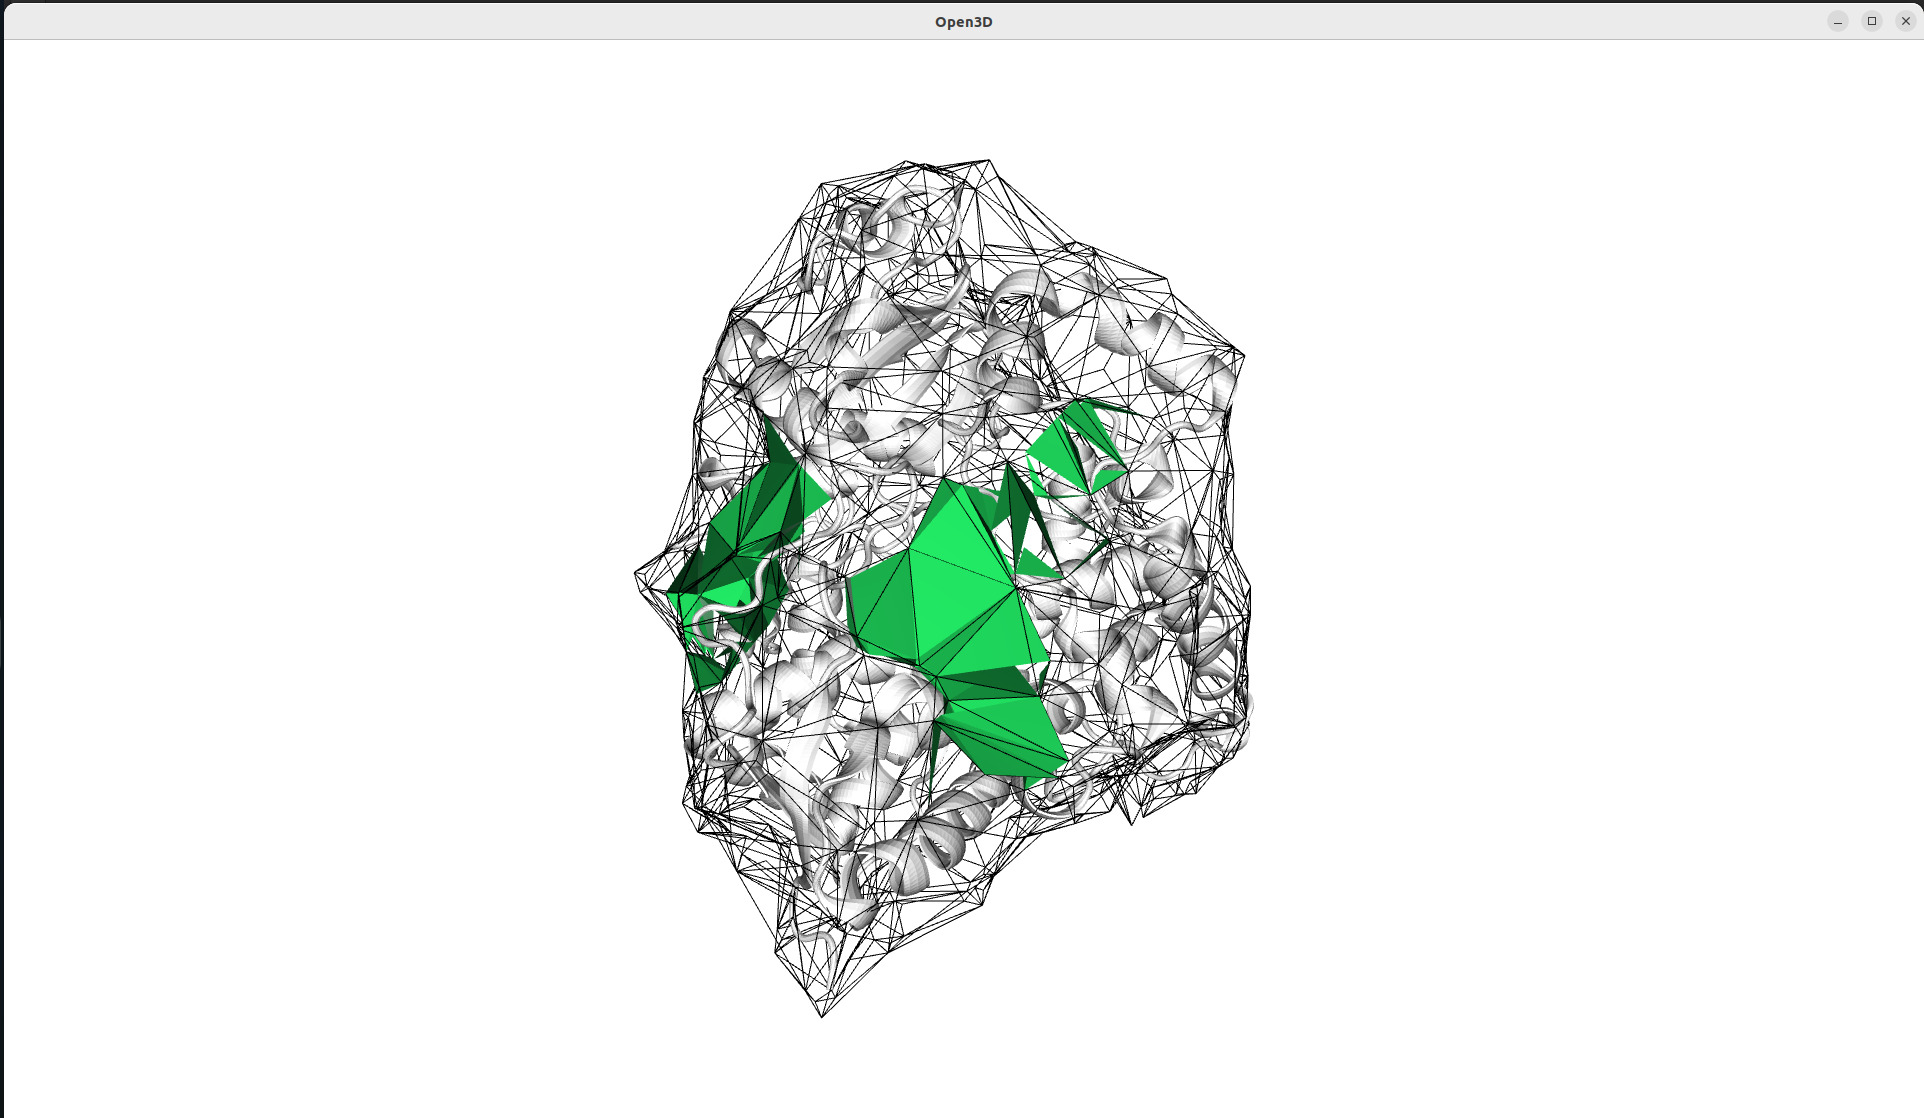
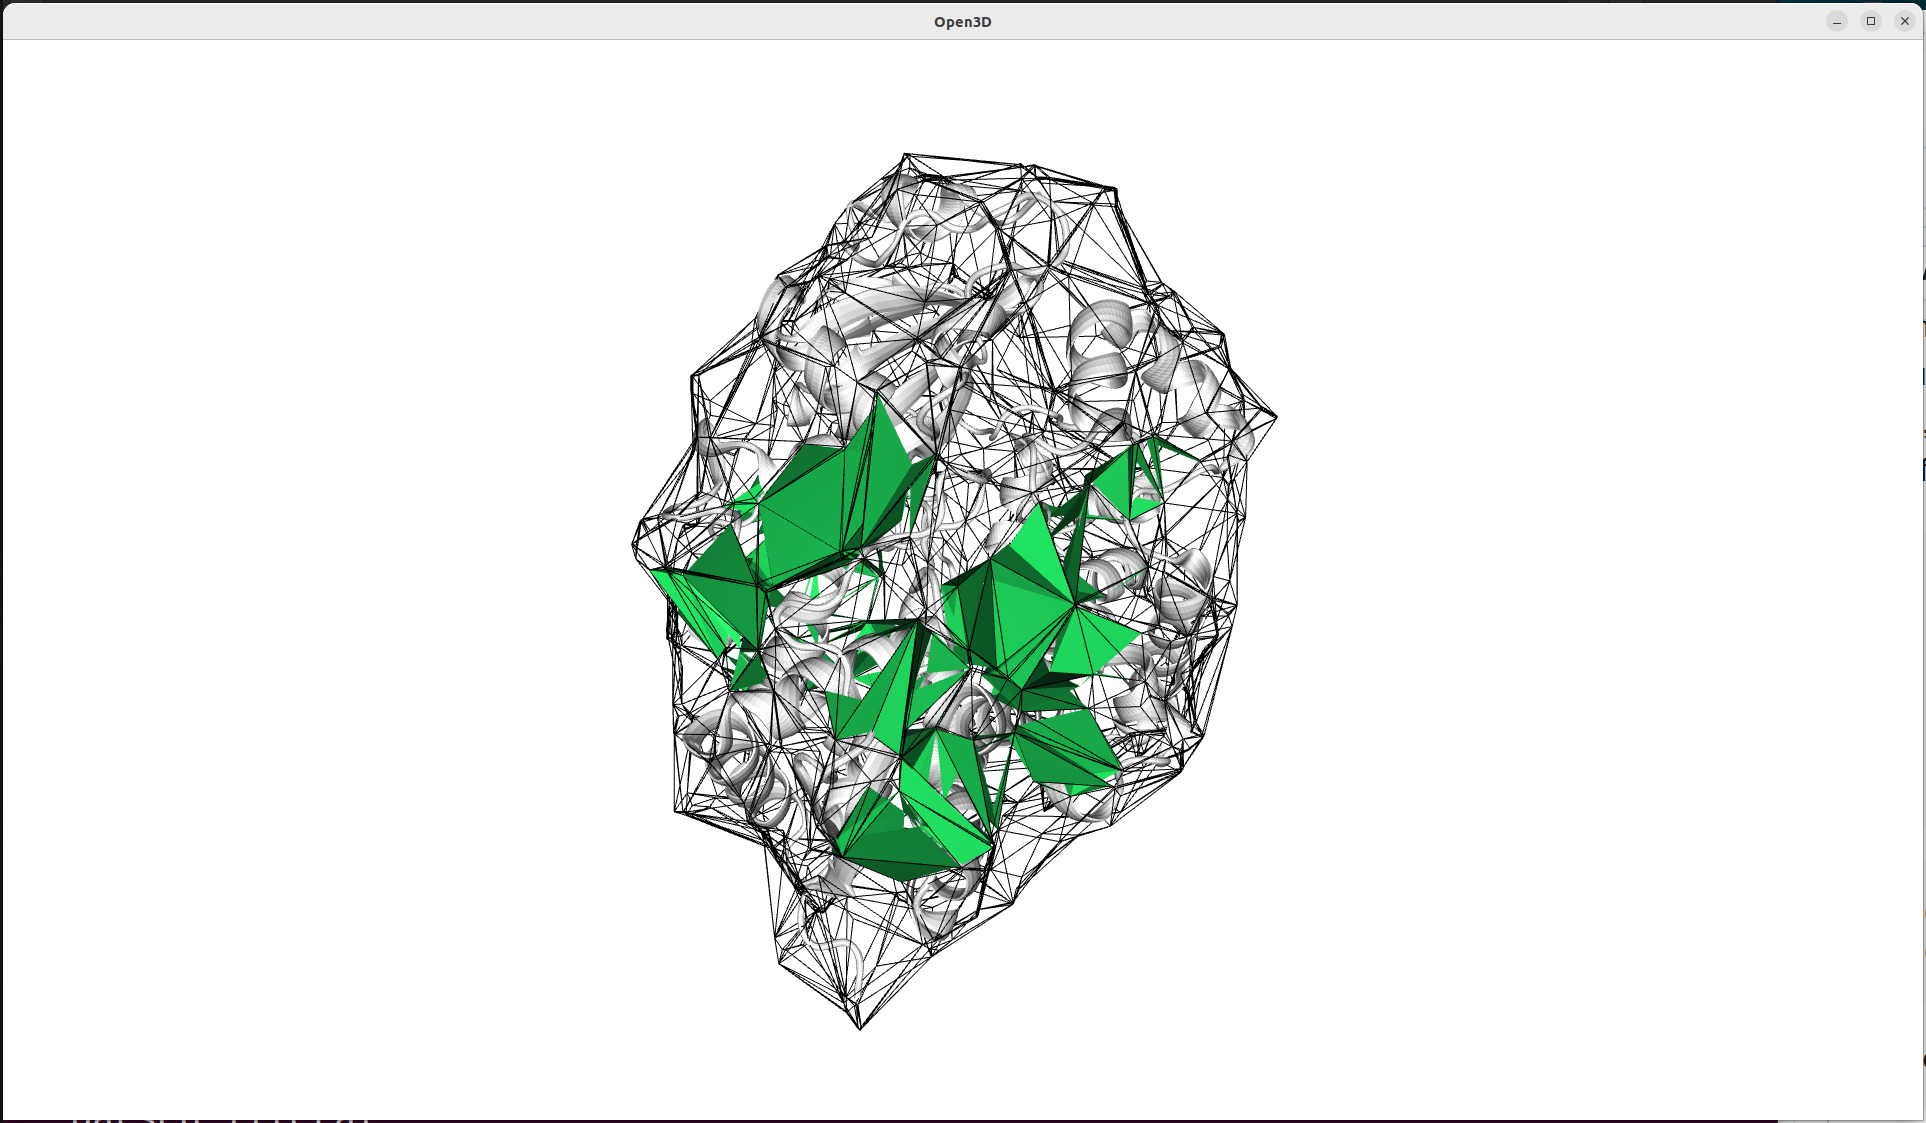
CaviTracer tutorial - singlePDB - changes after JB improvements (part2; figs 20, 21)

diff --git a/tutorials/cavitracer_tutorial/singlePDB.rst b/tutorials/cavitracer_tutorial/singlePDB.rst
@@ -432,21 +432,78 @@ geometric center is used as the starting point.
 .. parsed-literal::
 
    @> Using user-provided start_point for channel seed: [-22.312, -20.065, -11.144] Å
-   @> Detected 9 channels.
-
+   @> The atoms supplied to calcChannels contain protein atoms only.
+   @> WARNING structure has no hydrogens and r2=0.90 is below 1.2 A: the space left by the missing H is then wide enough for the probe to pass, and channels will be found through interstices that do not exist in the real protein (their number can rise several-fold). Either add hydrogens, or raise r2 to 1.2 A or more, where protonated and unprotonated structures give the same channels.
+   @> Substituted 3766 atoms with 23638 homogeneous balls of radius 1.52 A in 0.27s.
+   @> Delaunay tessellation of 23638 points constructed in 0.87s.
+   @> Surface and inner simplices filtered in 1.43s.
+   @> start_point seeded at tetrahedron 11317 (Voronoi vertex at [-24.951, -19.189, -10.516], 2.850 A from start_point, inscribed radius 1.330 A, depth 13.3 A).
+   @>     widened from the nearest tetrahedron 8399 (2.444 A away, inscribed radius 0.924 A, depth 13.1 A), the widest of the 4 tetrahedra no shallower than it among the 4 reachable within 3.0 A; seeding the narrow one would have capped every channel here at its radius.
+   @>     restricting the channel search to the cavity that contains it (10149 tetrahedra, depth 32.4 A).
+   @> 1 surface cavities detected and filtered in 0.36s.
+   @> Channel pathfinding (graph Dijkstra) over 1 cavities completed in 3.03s.
+   @> Detected 47 channels.
+   @> No output path given.
+   @> Channel calculation completed in 5.97s.
 
 .. ipython:: python
    :verbatim:
 
-   start_sel = protein.select('resid 212 309 483')
-   calcChannels(protein, output_path='results.pdb', start_point=start_sel)
+   start_sel = atoms.select('resid 212 309 483')
+   calcChannels(atoms, output_path='results.pdb', start_point=start_sel)
 
 
 .. parsed-literal::
 
    @> Using user-provided start_point for channel seed: [-24.395, -23.462, -15.132] Å
-   @> Detected 9 channels.
+   @> The atoms supplied to calcChannels contain protein atoms only.
+   @> WARNING structure has no hydrogens and r2=0.90 is below 1.2 A: the space left by the missing H is then wide enough for the probe to pass, and channels will be found through interstices that do not exist in the real protein (their number can rise several-fold). Either add hydrogens, or raise r2 to 1.2 A or more, where protonated and unprotonated structures give the same channels.
+   @> Substituted 3766 atoms with 23638 homogeneous balls of radius 1.52 A in 0.27s.
+   @> Delaunay tessellation of 23638 points constructed in 0.86s.
+   @> Surface and inner simplices filtered in 1.33s.
+   @> start_point seeded at tetrahedron 10064 (Voronoi vertex at [-24.209, -22.626, -15.674], 1.013 A from start_point, inscribed radius 2.308 A, depth 6.6 A).
+   @>     already the widest of the 31 tetrahedra no shallower than it among the 84 reachable within 3.0 A.
+   @>     restricting the channel search to the cavity that contains it (10149 tetrahedra, depth 32.4 A).
+   @> 1 surface cavities detected and filtered in 0.32s.
+   @> Channel pathfinding (graph Dijkstra) over 1 cavities completed in 2.76s.
+   @> Detected 47 channels.
    @> Saving results to results.pdb.
+   @> Channel calculation completed in 5.59s.
+
+   ([<prody.proteins.channels.Channel at 0x79c0da891e10>,
+     <prody.proteins.channels.Channel at 0x79c0da891a80>,
+     <prody.proteins.channels.Channel at 0x79c1479697e0>,
+     ..
+     <prody.proteins.channels.Channel at 0x79c147045c30>,
+     <prody.proteins.channels.Channel at 0x79c0da8924d0>],
+    [array([[-30.07      ,   8.178     , -13.891     ],
+            [-29.618     ,   8.226     , -15.315     ],
+            [-29.58642188,   8.14478071, -15.1575    ],
+            ...,
+            [-26.49550663, -61.26776883, -23.6695    ],
+            [-26.76969072, -61.18417412, -23.7145    ],
+            [-26.57247665, -61.10354151, -23.7595    ]]),
+     array([[ 408,  393,  396,  405],
+            [ 394,  408,  396,  405],
+            [ 394,  408,  393,  396],
+            ...,
+            [2348, 2340, 2322, 2355],
+            [2348, 2340, 2357, 2355],
+            [2348, 2340, 2357, 2322]], dtype=int32),
+     array([[ 7615, 21484, 14211, 14209],
+            [21290,  7615, 21484, 14211],
+            [21264, 21290,  7615, 21484],
+            ...,
+            [21319, 21338, 21339, 21118],
+            [21338, 21339, 21126, 21118],
+            [21290, 14214, 21484, 14211]], dtype=int32),
+     array([[ 7615, 21484, 14211, 14209],
+            [ 9671,  9668,  9476,  9278],
+            [16207, 16434, 16401, 16192],
+            ...,
+            [ 2356,  1907,  2976,  1917],
+            [ 1504,  1501, 18522,  1516],
+            [ 1504,  1501, 18522, 18495]], dtype=int32)])
 
 
 Below is the visualization of channel identification for the two different starting
@@ -496,8 +553,14 @@ file using ``output_path`` parameter.
 
 .. parsed-literal::
 
-   @> Returning surface cavities
-   @> Saving surface cavities to test_surf_cav.pqr.
+  @> The atoms supplied to calcChannels contain protein atoms only.
+  @> Substituted 3766 atoms with 23638 homogeneous balls of radius 1.52 A in 0.22s.
+  @> Delaunay tessellation of 23638 points constructed in 0.84s.
+  @> Surface and inner simplices filtered in 0.32s.
+  @> 40 surface cavities detected and filtered in 0.30s.
+  @> Returning surface cavities
+  @> Saving surface cavities to test_surf_cav.pqr.
+  @> Surface cavity calculation completed in 1.81s.
 
 To display the identified surface cavities, similarly to the channel
 identification, we need to use VMD_ to create the model for visualization
@@ -549,8 +612,14 @@ saved to a file specified by the output_path parameter,
 
 .. parsed-literal::
 
+   @> The atoms supplied to calcChannels contain protein atoms only.
+   @> Substituted 3766 atoms with 23638 homogeneous balls of radius 1.52 A in 0.28s.
+   @> Delaunay tessellation of 23638 points constructed in 0.81s.
+   @> Surface and inner simplices filtered in 0.33s.
+   @> 40 surface cavities detected and filtered in 0.31s.
    @> Returning surface cavities
    @> Saving surface cavities to surf_cav_MinMax_volume.pqr.
+   @> Surface cavity calculation completed in 1.84s.
 
 We can display the results using :func:`.showSurfaceCavities` function:
 
@@ -602,9 +671,9 @@ tetrahedra count, use :func:`getSurfaceCavityParameters`.
 .. parsed-literal::
 
    @> Cavity ID: 	Volume [Å³] 	Depth [Å] 	Tetrahedra count
-   @> cavity 0: 	928.09 		8 		97
-   @> cavity 1: 	771.55 		5 		77
-   @> Surface cavity residues were saved to: results_Residues_All_surface_cavities.txt
+   @> cavity 0: 	503.05 		7.78 		133
+   @> cavity 1: 	955.46 		8.29 		269
+   @> cavity 2: 	621.45 		8.01 		152
 
 By assigning the output of :func:`getSurfaceCavityParameters` to the
 variable parameters, the extracted cavity descriptors can be accessed as
@@ -618,7 +687,9 @@ lists, including cavity volume (``parameters[0]``), depth
 
 .. parsed-literal::
 
-   ([928.0878561950001, 771.5530158881667], [8, 5], [97, 77])
+   ([503.04967293496003, 955.46028274561, 621.4527824426602],
+    [7.7812978201386995, 8.293453349117478, 8.006634128744826],
+    [133, 269, 152])
 
 
 .. ipython:: python
@@ -628,7 +699,7 @@ lists, including cavity volume (``parameters[0]``), depth
 
 .. parsed-literal::
 
-   [928.0878561950001, 771.5530158881667]
+   [503.04967293496003, 955.46028274561, 621.4527824426602]
 
 
 In addition to quantitative descriptors, CaviTracer also allows the
@@ -658,10 +729,15 @@ sufix.
 
 .. parsed-literal::
 
-   ['cavity0: LYS173, ASP174, GLY177, ALA178, SER195, LEU196, PRO199, LYS208, LYS209,
-   LEU211, ARG212, PHE213, PHE219, PHE220, CYS239, VAL240, PHE241, PRO242, PHE304,
-   TYR307, GLU308, SER311, LEU482', 'cavity1: LYS55, MET59, MET62, GLU63, TYR319, 
-   GLU320, THR323, HIS324, PHE367, TYR399, ARG403, GLU412, LYS413, PHE414, ILE473, 
-   PRO474, LEU475, LEU477, SER478, LEU479']
+   ['cavity0: LYS55, MET59, MET62, TYR319, THR323, HIS324, TYR399, GLU412, 
+     LYS413, PHE414, LEU415, ILE473, LYS476, LEU477, LEU479, GLU486',
+    'cavity1: GLU163, GLY167, LYS168, PRO169, VAL170, THR171, LYS173, 
+     ASP174, SER195, LEU196, PRO199, LYS208, LYS209, LEU211, ARG212, PHE213, 
+     ASP214, ASP217, PHE219, PHE220, ILE238, CYS239, VAL240, TYR307, GLU308, 
+     CYS468, LYS469, GLU470, GLN472, LEU482, GLN484, PRO485, GLU486, LYS487, 
+     PRO488, VAL490, LYS492',
+    'cavity2: LEU142, TYR347, LEU351, GLN352, GLU354, ASN361, PHE419, LYS424, 
+     ASP425, ASN426, ILE427, ASP428, PRO429, TYR432, PRO434, PHE435, GLY436, 
+     SER437, MET445, ARG446, LEU449, MET450, LYS453']
 
 
